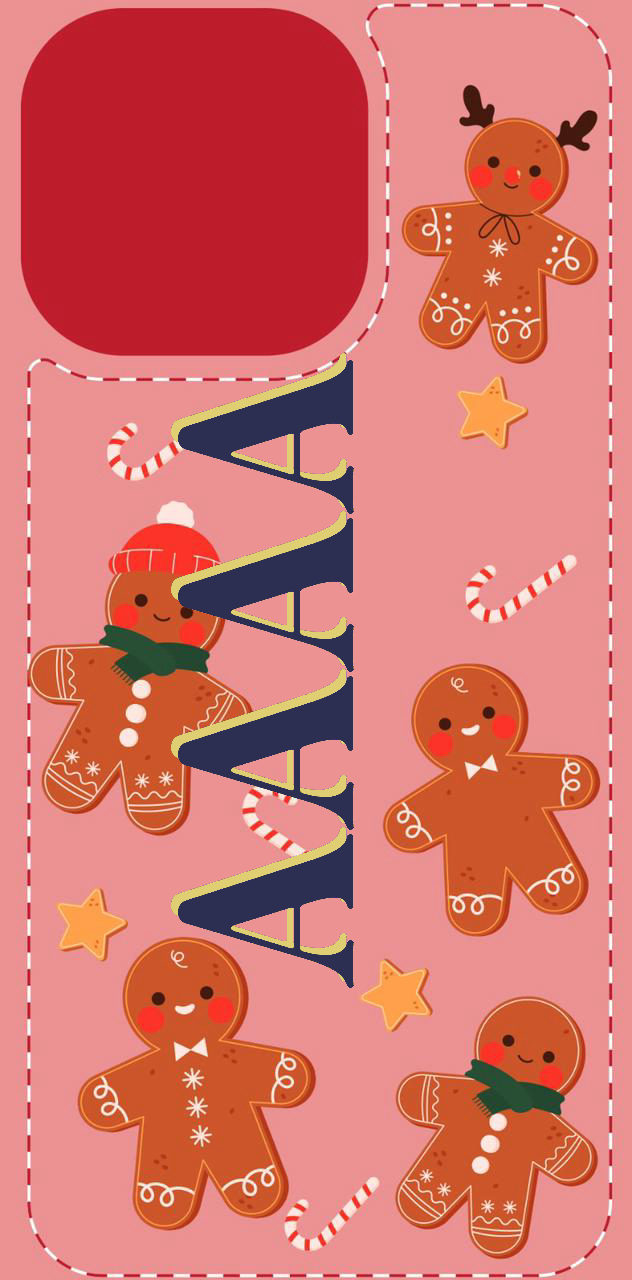
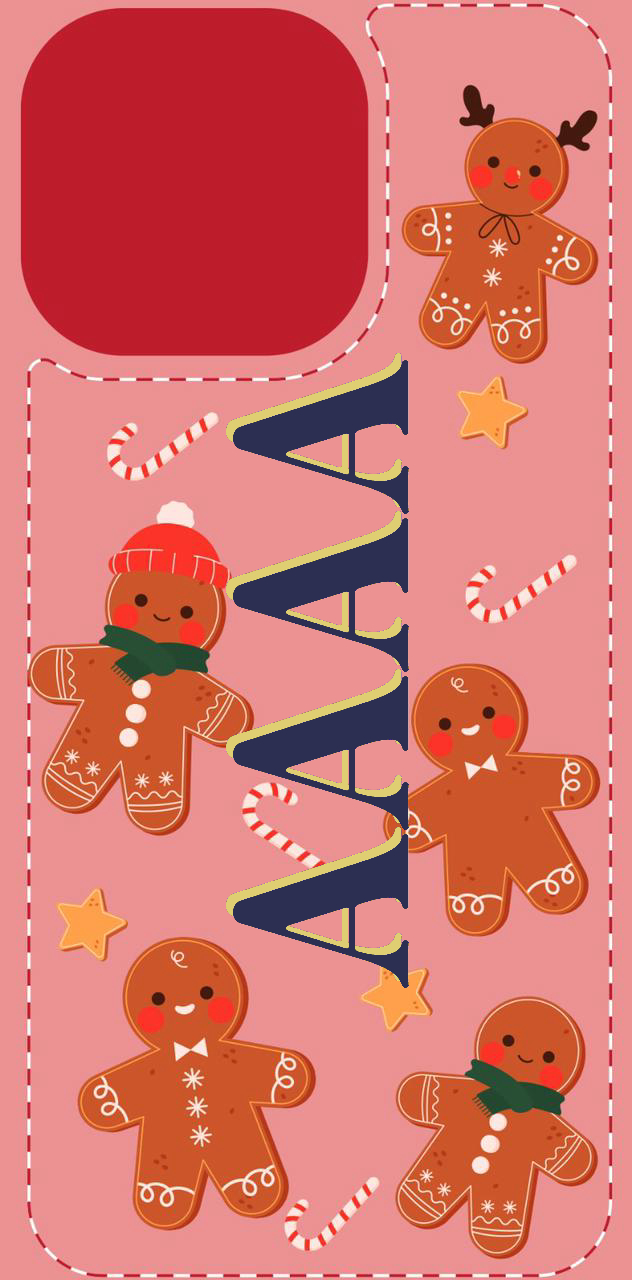
img api end point

Changed region(s): [[0.2706, 0.2812, 0.6614, 0.7812]]

diff --git a/index.js b/index.js
@@ -5,7 +5,7 @@ const port = 4550;
 const inputImagePath = "2.jpeg";
 const outputImagePath = "outputtt.jpg";
 const text = "AAAA";
-const fontFamily ="../250.fnt";
+const fontFamily = "../250.fnt";
 
 // Define a larger font size
 Jimp.loadFont(fontFamily) // You can use a different Jimp font if needed
@@ -17,30 +17,29 @@ Jimp.loadFont(fontFamily) // You can use a different Jimp font if needed
       textImage.rotate(90); // Rotate the text by 45 degrees
 
       // Add a red color to the text (RGBA format)
-      textImage.color([
-        { apply: "xor", params: ["#D3D0AD"]}
-      ]);
+      textImage.color([{ apply: "xor", params: ["#D3D0AD"] }]);
 
       // Apply a text shadow by cloning the text with a slight offset and color
       const shadowOffset = -7; // Adjust the shadow offset as needed
-      const shadowColor = Jimp.rgbaToInt(0, 0, 25, 100);  
-      const shadowImage = textImage.clone().color([
-     
-        { apply: "xor", params: ["#F3E020"] }
-      ]);
-      textImage.clone().color([{ apply: "darken", params: [shadowColor, 100] }]);
+      const shadowColor = Jimp.rgbaToInt(0, 0, 25, 100);
+      const shadowImage = textImage
+        .clone()
+        .color([{ apply: "xor", params: ["#F3E020"] }]);
+      textImage
+        .clone()
+        .color([{ apply: "darken", params: [shadowColor, 100] }]);
 
       // Calculate the position to center the rotated textImage
-      const textX = (image.bitmap.width - textImage.bitmap.width) / 2;
+      const textX = (image.bitmap.width - textImage.bitmap.width) / 1.5;
       const textY = (image.bitmap.height - textImage.bitmap.height) / 2;
       const shadowX = textX + shadowOffset;
       const shadowY = textY + shadowOffset;
 
-            // Composite the shadowImage onto the original image
-            image.composite(shadowImage, shadowX, shadowY);
+      // Composite the shadowImage onto the original image
+      image.composite(shadowImage, shadowX, shadowY);
       // Composite the rotated textImage onto the original image
       image.composite(textImage, textX, textY);
-console.log(image.getWidth() , image.getHeight())
+      console.log(image.getWidth(), image.getHeight());
       return image;
     });
   })
@@ -57,12 +56,14 @@ console.log(image.getWidth() , image.getHeight())
     console.error(err);
   });
 
-
 // Define an endpoint
-app.use('/', (req, res) => {
-  res.send('This is my custom endpoint!');
+app.get('/img', (req, res) => {
+  // Construct the URL of the generated image
+  const imageUrl = `http://localhost:${port}/${outputImagePath}`;
+  
+  // Send the image URL as a response
+  res.json({ imageUrl });
 });
-
 
 app.listen(port, () => {
   console.log(`App is listening to the port ${port}`);
